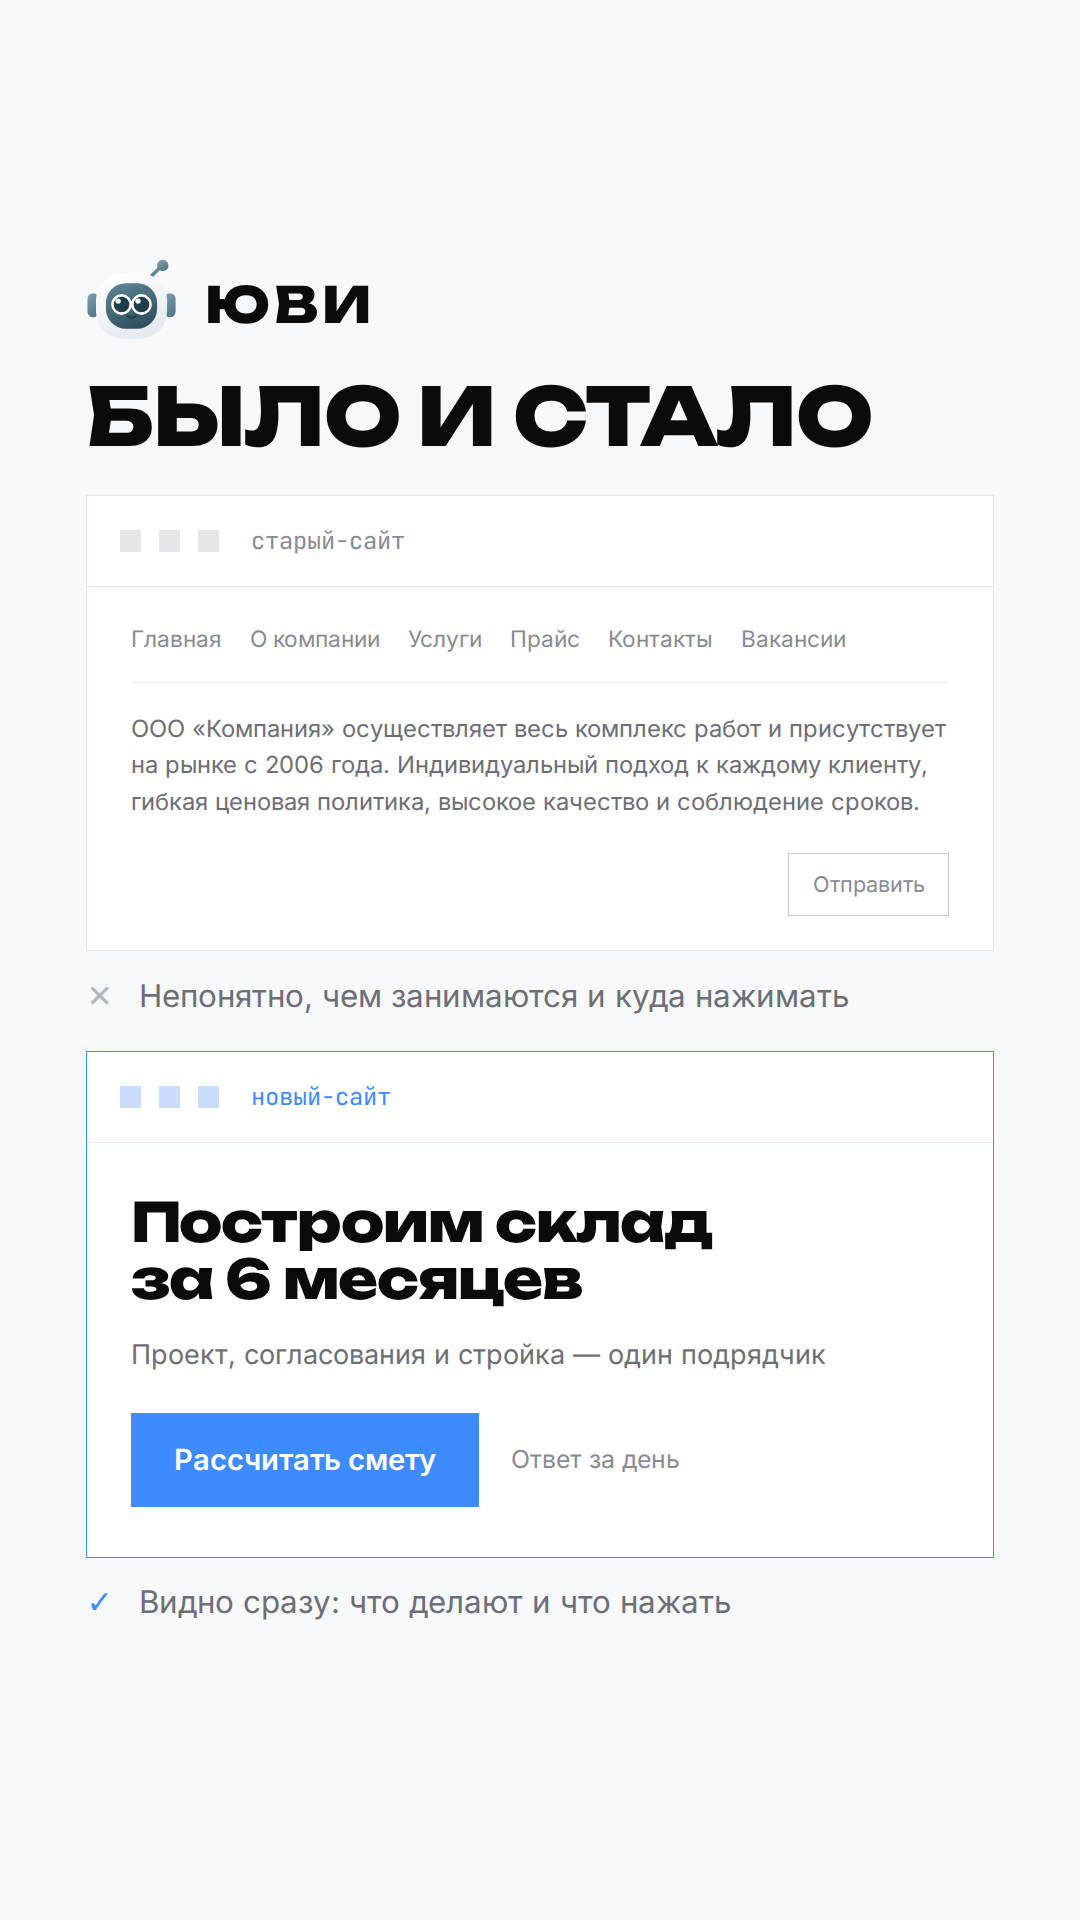
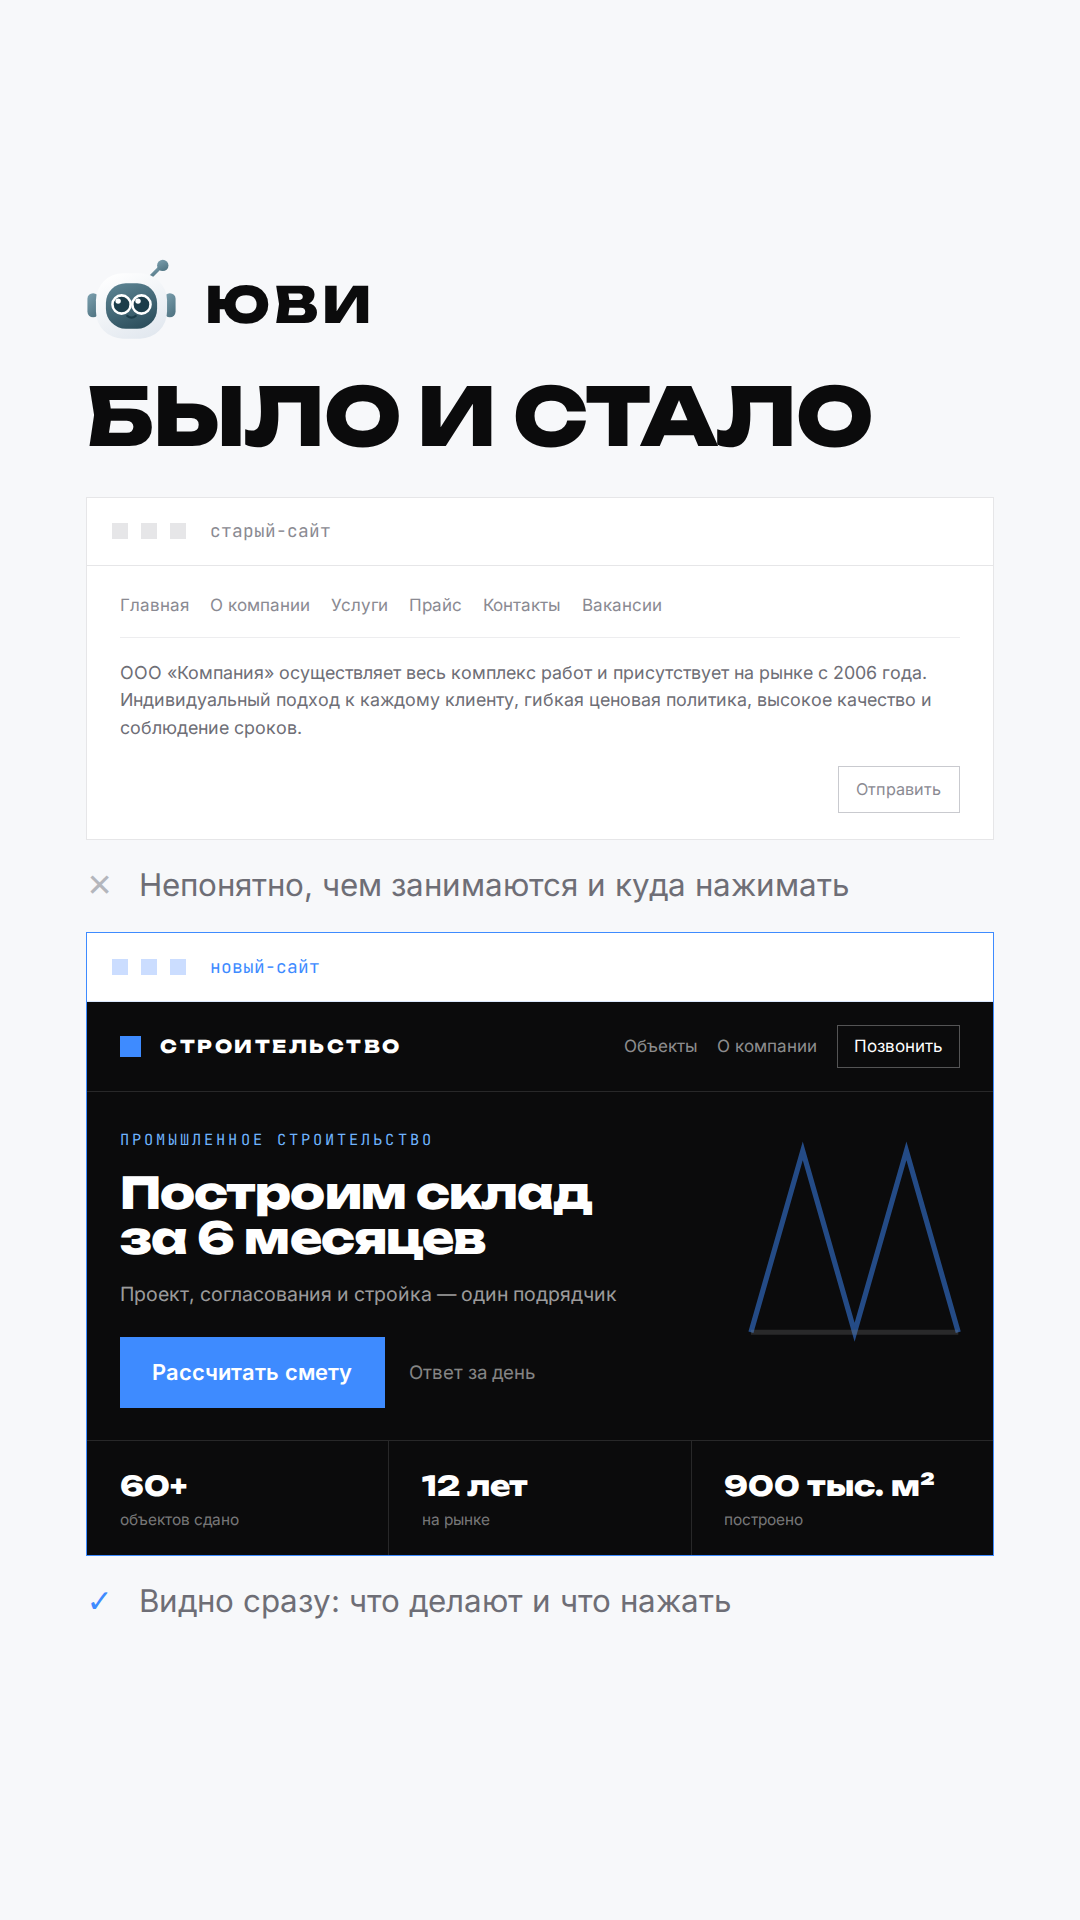
Sharpen story 01, rebuild the "after" screen, add real contacts to 11
01: "заявки приходят" did not match the two clauses before it, so the
line is now three of a kind — смотреть приятно, пользоваться просто,
заявку оставить легко.

03: the "after" screen was a white box with a headline and a button,
which read as barely different from the "before". It is now a dark first
screen with a nav bar, an eyebrow, a large promise, a blue call to
action and a stats strip — the kind of page the old one is being
compared against. Its copy and figures differ from the construction case
cover so the two stories do not look like the same screenshot. Both
mockups are scaled with `zoom`, not `transform`: zoom shrinks the box
too, so the blocks below stay put and the safe-area check keeps working.

11: carries Telegram and the phone number, and no longer says a bot
answers in Telegram — the bot in bot/ is written but not running, and
the studio's own account has none.

Claude-Session: https://claude.ai/code/session_01WxRaXZSnVUSqXcjtSrgtMU

Changed region(s): [[0.0611, 0.5, 0.9472, 0.8438], [0.0917, 0.25, 0.8861, 0.4688]]

diff --git a/social/stories/README.md b/social/stories/README.md
@@ -26,7 +26,7 @@
 |---|---|---|
 | `01-vizitka.png` | Красиво. Удобно. Работает. | Первая в серии. Ставьте перед любой подборкой — она объясняет, кто говорит. |
 | `02-vopros.png` | Сайт есть. Заявок нет. | Зацепка. Дальше — «Было / Стало» или любой кейс. |
-| `03-do-posle.png` | Было и стало | Ответ на предыдущую: два настоящих первых экрана рядом, видно, что именно меняется. |
+| `03-do-posle.png` | Было и стало | Ответ на предыдущую: два первых экрана друг под другом — серая страница 2006 года и тёмный лендинг с одной кнопкой. |
 | `04-keys-stroyka.png` | Сайт генподрядчика | Кейс, строительство. |
 | `05-keys-ucheba.png` | Платформа учебного центра | Кейс, образование. |
 | `06-keys-klinika.png` | Сайт клиники с записью | Кейс, стоматология. |
@@ -34,7 +34,7 @@
 | `08-sroki.png` | Сроки без «зависит» | Сроки те же, что на сайте. |
 | `09-usloviya.png` | Три условия | Те же три обещания, что в первом экране сайта. |
 | `10-opros.png` | Как у вас сейчас с сайтом? | Пустая рамка — место под стикер опроса. |
-| `11-svyaz.png` | Что у вас за задача? | Закрывающая. Стикер-ссылку ставьте поверх рамки с `@yuvi_web`. |
+| `11-svyaz.png` | Что у вас за задача? | Закрывающая. Контакты: Telegram `@yuvi_web` и телефон `+996 990 806 040`. Стикер-ссылку ставьте поверх строки с `@yuvi_web`. |
 
 ## Два кадра со стикерами
 
@@ -43,8 +43,16 @@
 
 - **10** — стикер опроса. Варианты ответа: «Нет сайта» / «Есть, но не продаёт».
   Ответы потом разберите отдельной сторис: так набирается материал на неделю.
-- **11** — стикер-ссылка на `t.me/yuvi_web`. Ставьте его на рамку с `@yuvi_web`,
+- **11** — стикер-ссылка на `t.me/yuvi_web`. Ставьте его на строку с `@yuvi_web`,
   ниже нельзя — там строка ответа.
+
+В одиннадцатой нет слов про то, что в Telegram отвечает бот: бот написан
+(`bot/`), но не запущен, а обещать в сторис то, чего в аккаунте нет, — верный
+способ потерять первого же клиента. Когда запустите — скажите, верну строку.
+
+Телефон `+996 990 806 040` пока стоит только в сторис. На сайте телефона нет
+(его убирали намеренно), так что сейчас номер и сайт расходятся — скажите, если
+добавить его в контакты сайта и в описание профиля.
 
 ## Порядок выкладки
 
